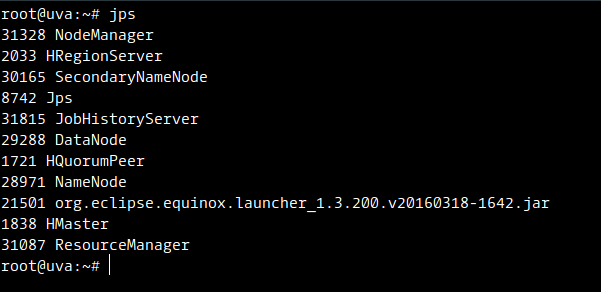
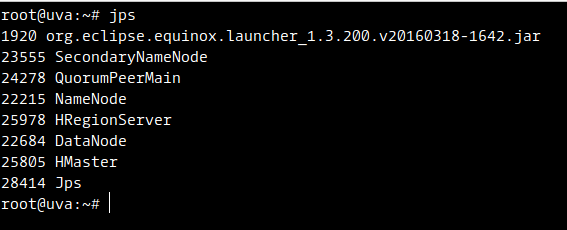
Updates chapter1.md
Auto commit by GitBook Editor

Changed region(s): [[0.0, 0.0, 1.0, 0.9435]]

diff --git a/chapter1.md b/chapter1.md
@@ -11,11 +11,13 @@ Start all the below mentioned services
 
 ```
 start-dfs.sh
-start-yarn.sh
-mr-jobhistory-daemon.sh start historyserver
 service zookeeper start
 start-hbase.sh
 ```
 
-![](/assets/start-all-services.png)Once all the above commands are run, check whether all the processes are running.![](/assets/jps.png)
+![](/assets/start_all_services.png)
+
+Once all the above commands are run, check whether all the processes are running.
+
+![](/assets/jps.png)
 
